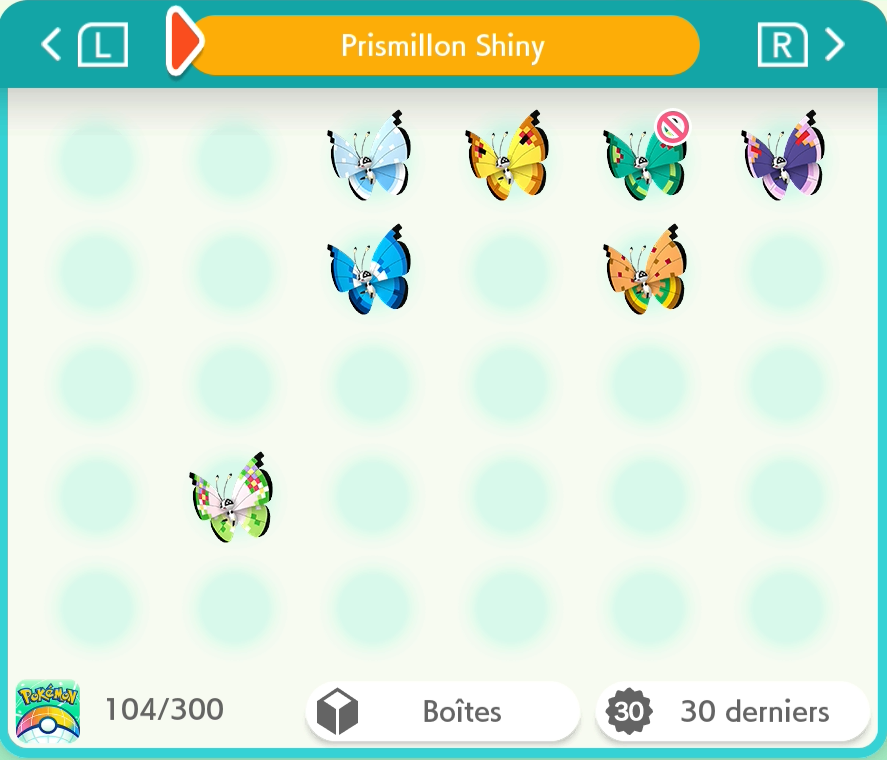
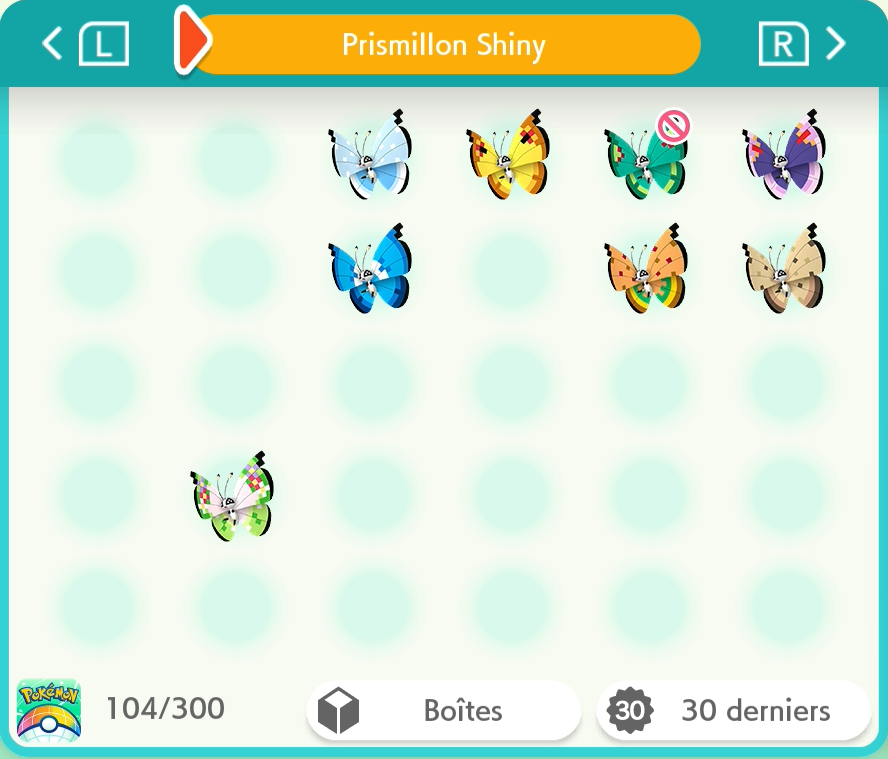
Prismillon : Motif Sable

diff --git a/README.md b/README.md
@@ -2,7 +2,7 @@
 
 Pokémon-Elément-Sh -> <a href="https://www.pokemon-element-sh.fr/profil/karyno21" target="_blank">Karyno21</a>
 
-↓ Dernière Update le 13/10/2026 à 1h57 ↓
+↓ Dernière Update le 14/10/2026 à 4h49 ↓
 ### Dex 1-9G [293/1001] +32
 
 | Gen | Prog | Notes |
@@ -31,7 +31,7 @@ Pokémon-Elément-Sh -> <a href="https://www.pokemon-element-sh.fr/profil/karyno
 <details>
   <summary>Bonus - Motif de Prismillon</summary>
 
-### Motif de Prismillon [7/19] +7
+### Motif de Prismillon [8/19] +8
 
 | Motif | Prog |
 |---|:--:|
@@ -50,7 +50,7 @@ Pokémon-Elément-Sh -> <a href="https://www.pokemon-element-sh.fr/profil/karyno
 |Motif Monarchie|Obtenu|
 |Motif Poké Ball (événementiel / Shiny Lock)|❌|
 |Motif Rivage|Obtenu|
-|Motif Sable||
+|Motif Sable|Obtenu|
 |Motif Sécheresse|Obtenu|
 |Motif Soleil Levant||
 |Motif Verdure|Obtenu|
